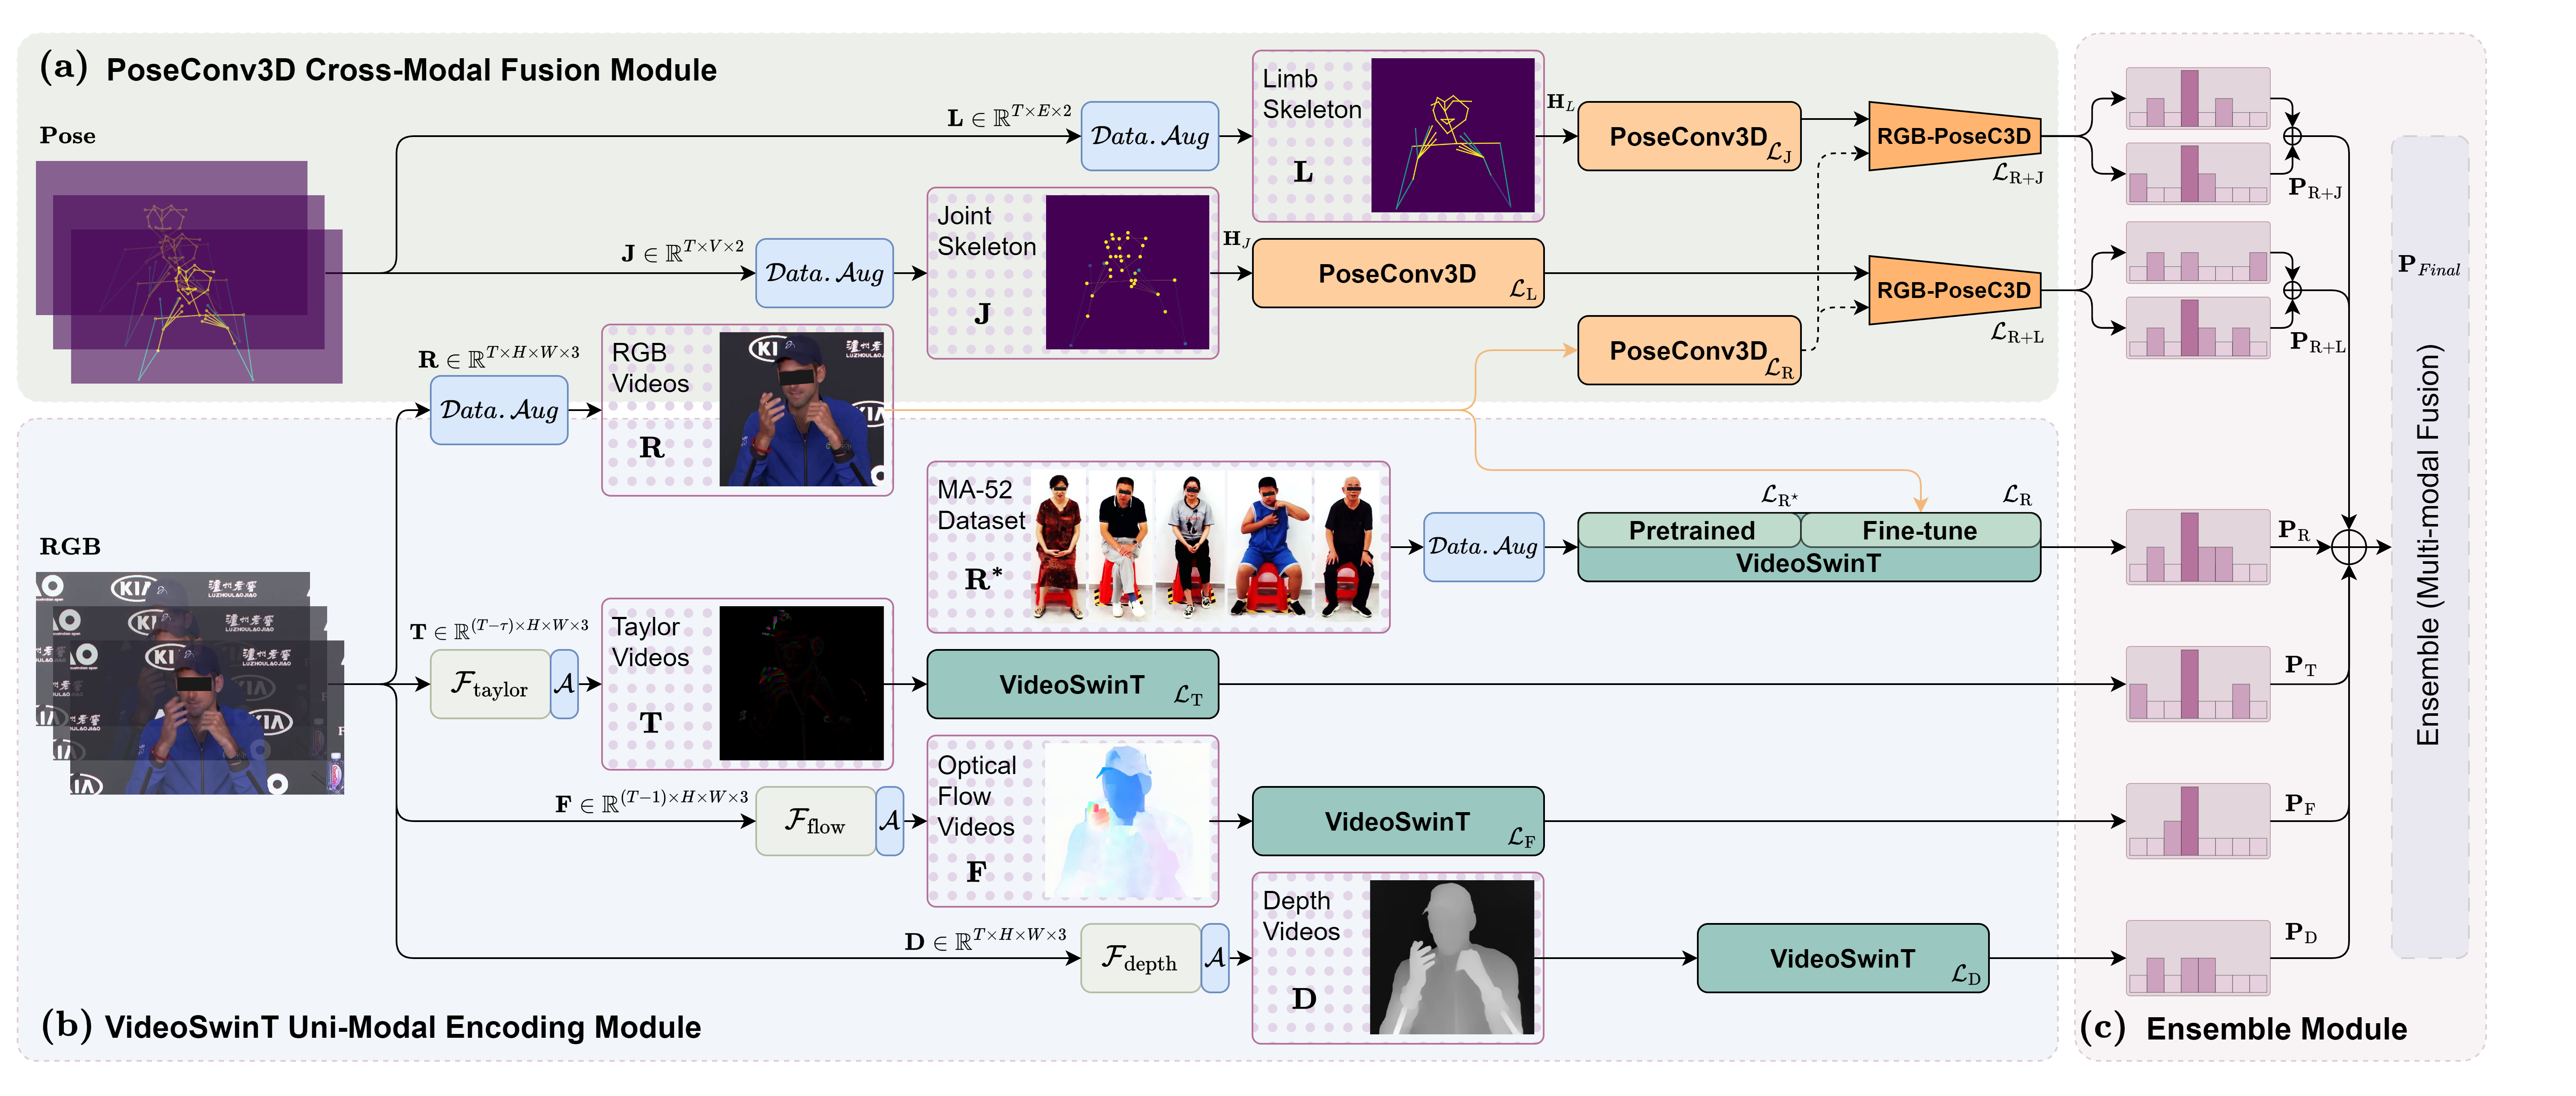
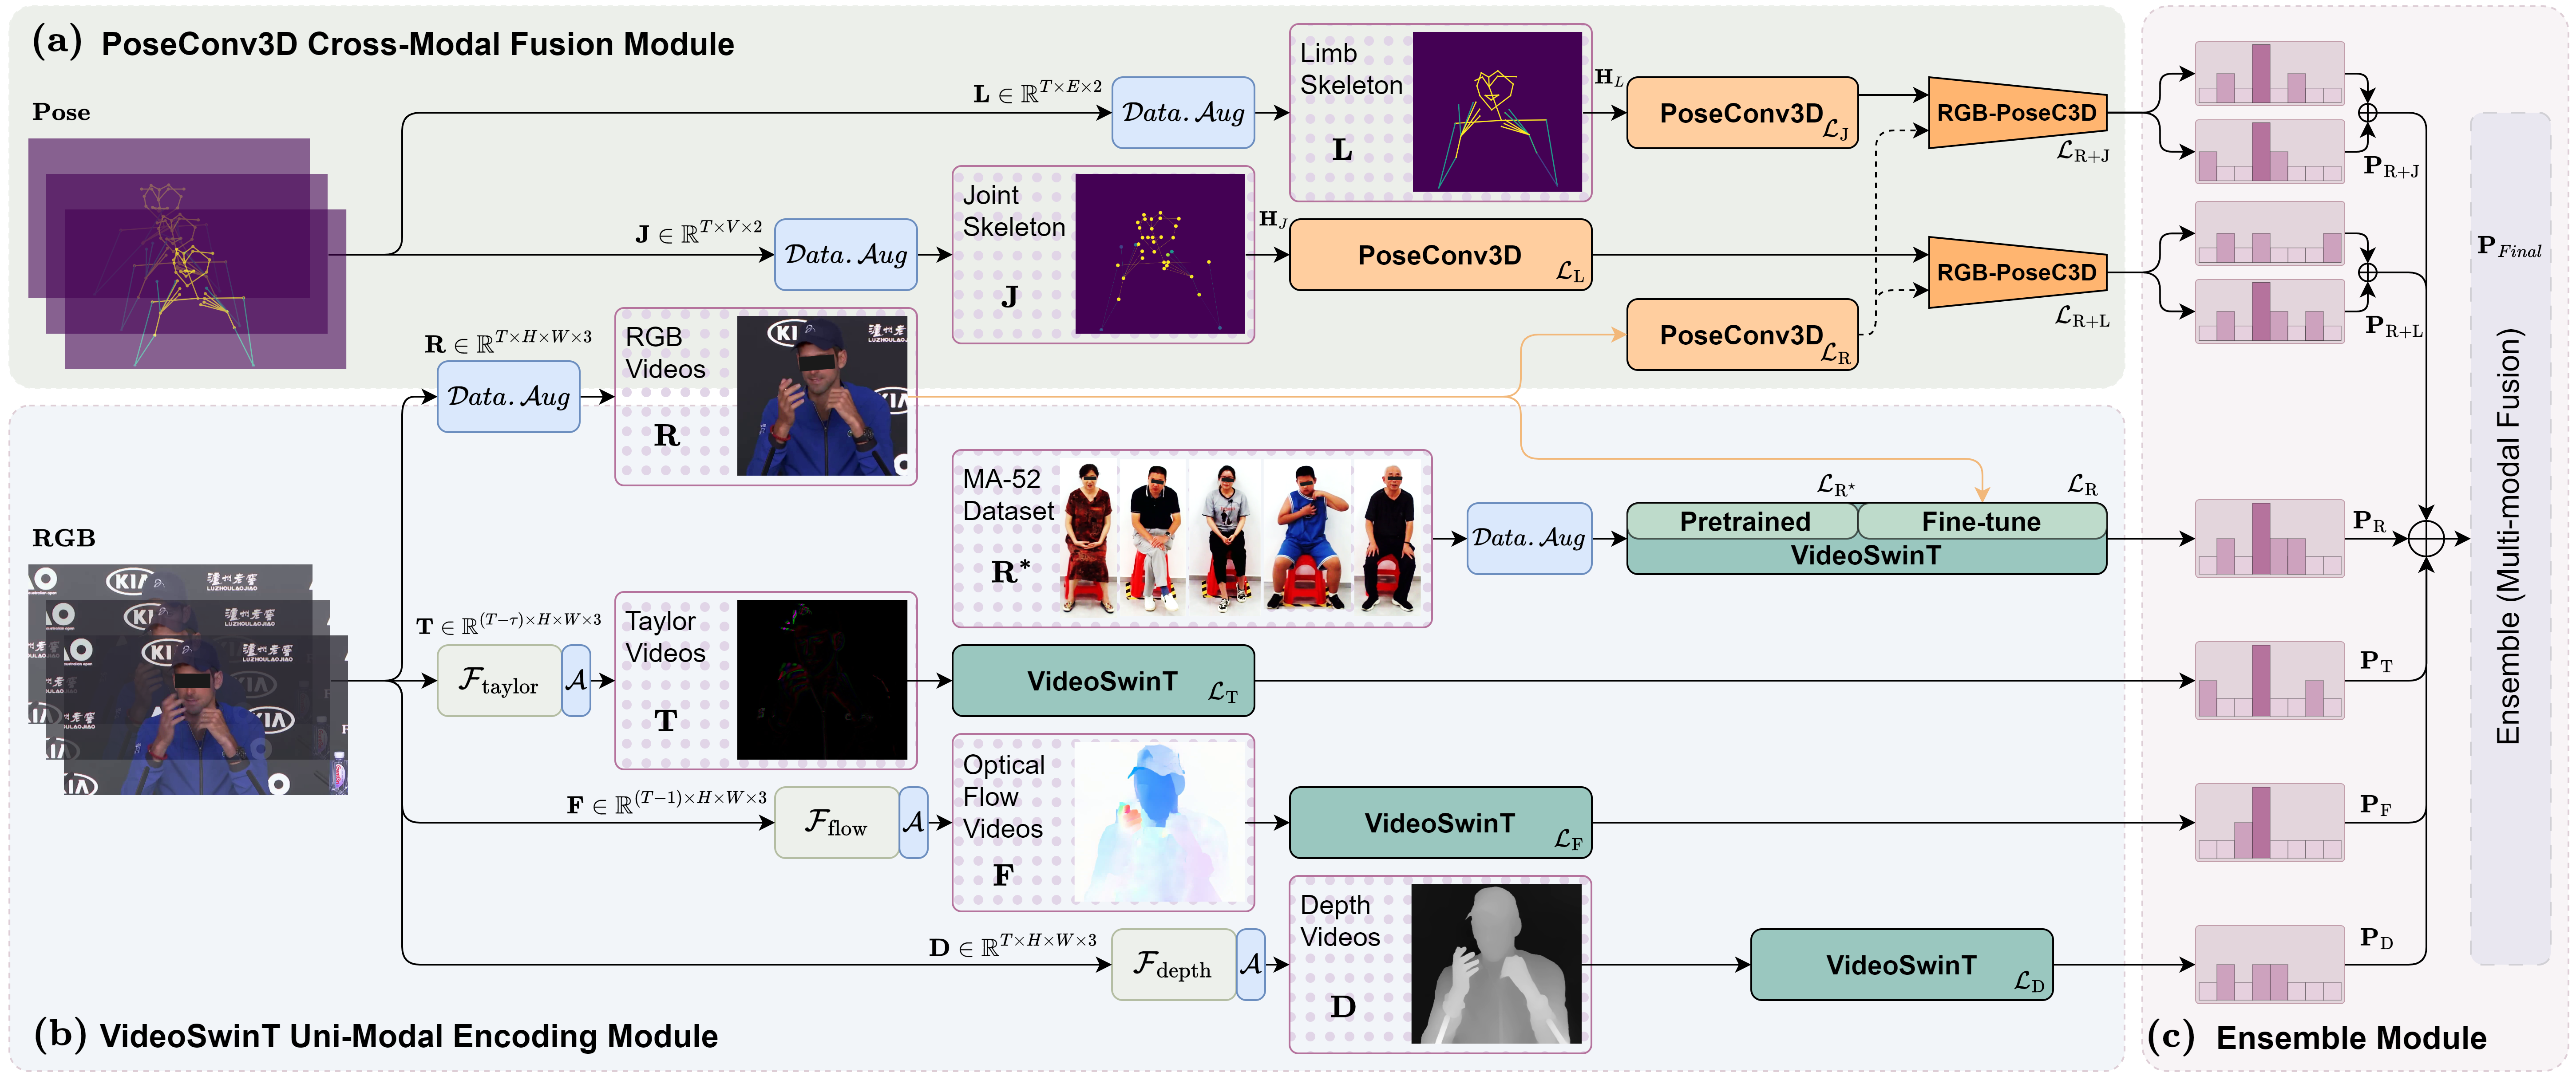
update

diff --git a/_sass/_cosmic.scss b/_sass/_cosmic.scss
@@ -204,6 +204,12 @@ td > code {
   }
 }
 
+.author__urls .fa-map-marker,
+.author__urls .fa-github,
+.author__urls_sm .fa-github {
+  color: #ffffff;
+}
+
 @media (max-width: 924px) {
   .author__urls {
     border-color: rgba(116, 217, 255, 0.22);
@@ -225,6 +231,7 @@ td > code {
 }
 
 .paper-box-image img {
+  background-color: #ffffff;
   border: 1px solid rgba(116, 217, 255, 0.16);
   box-shadow:
     0 18px 40px rgba(0, 0, 0, 0.34),